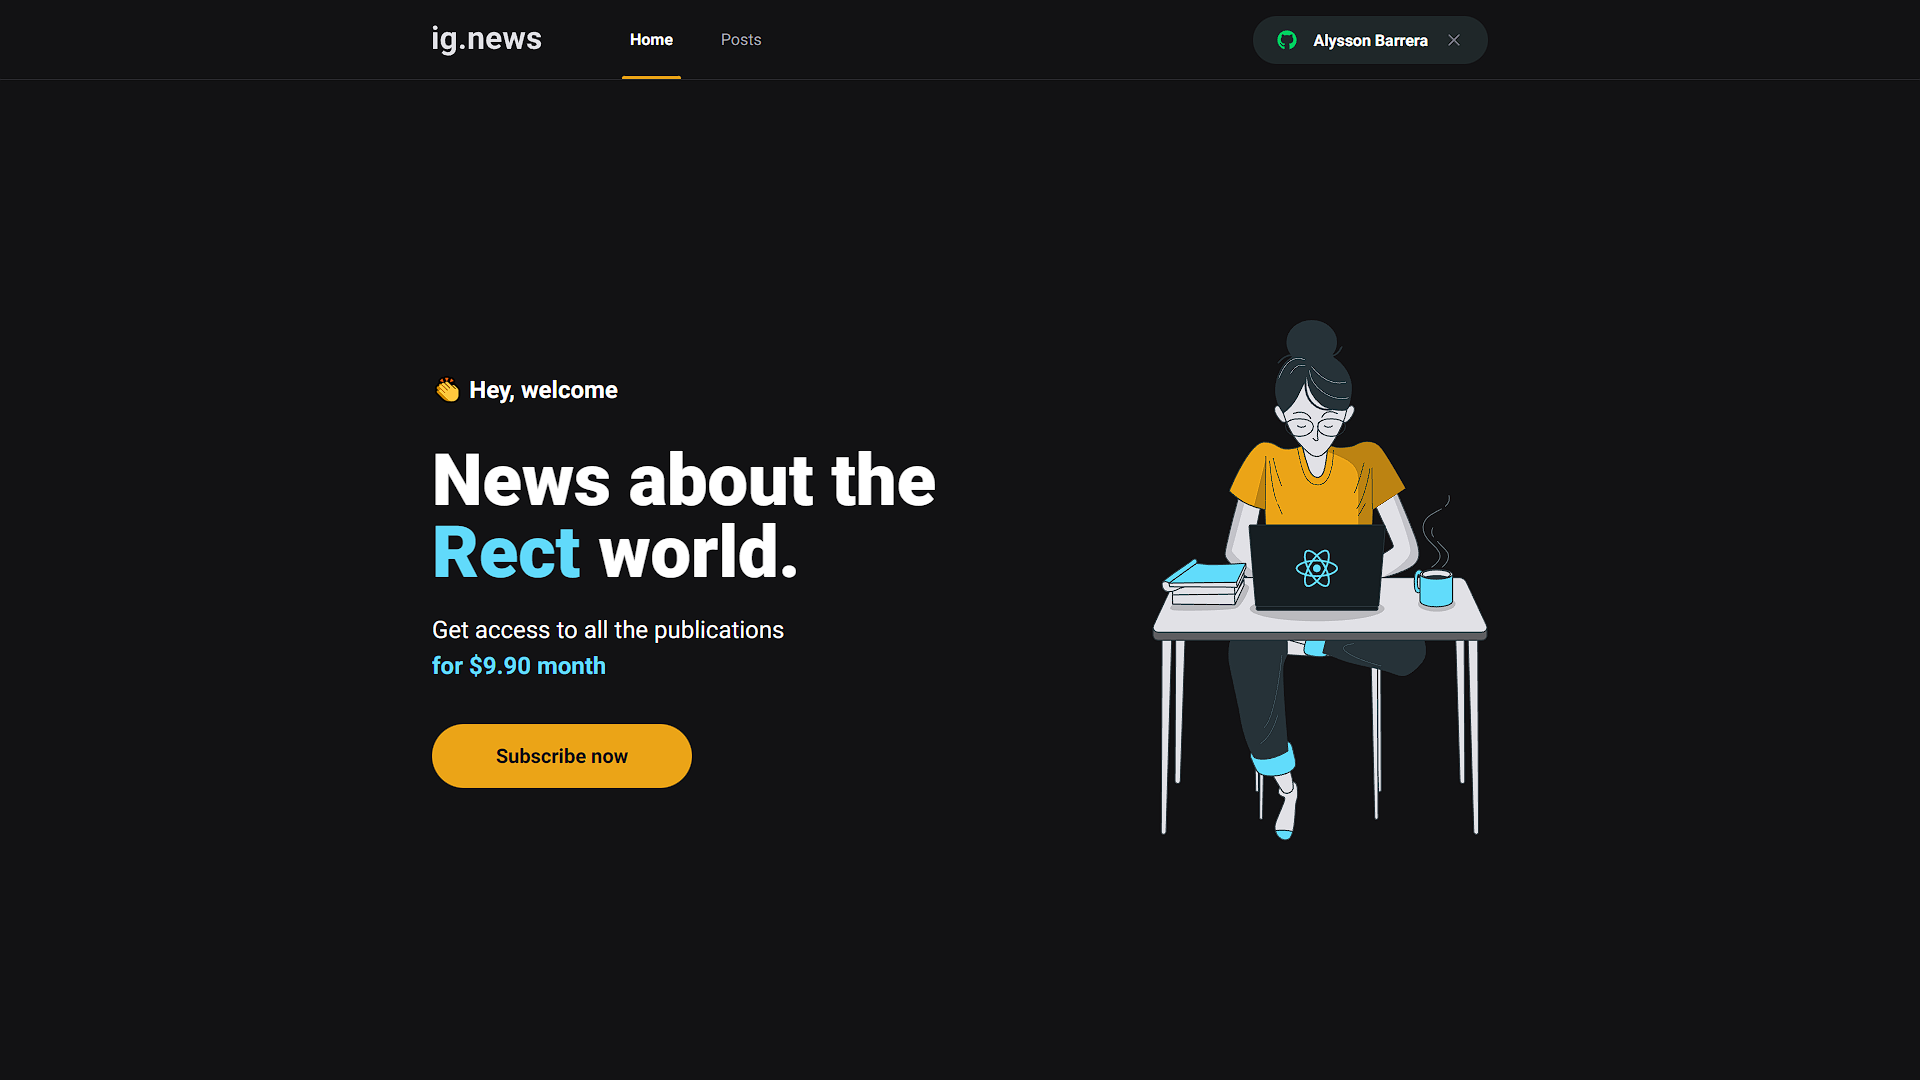
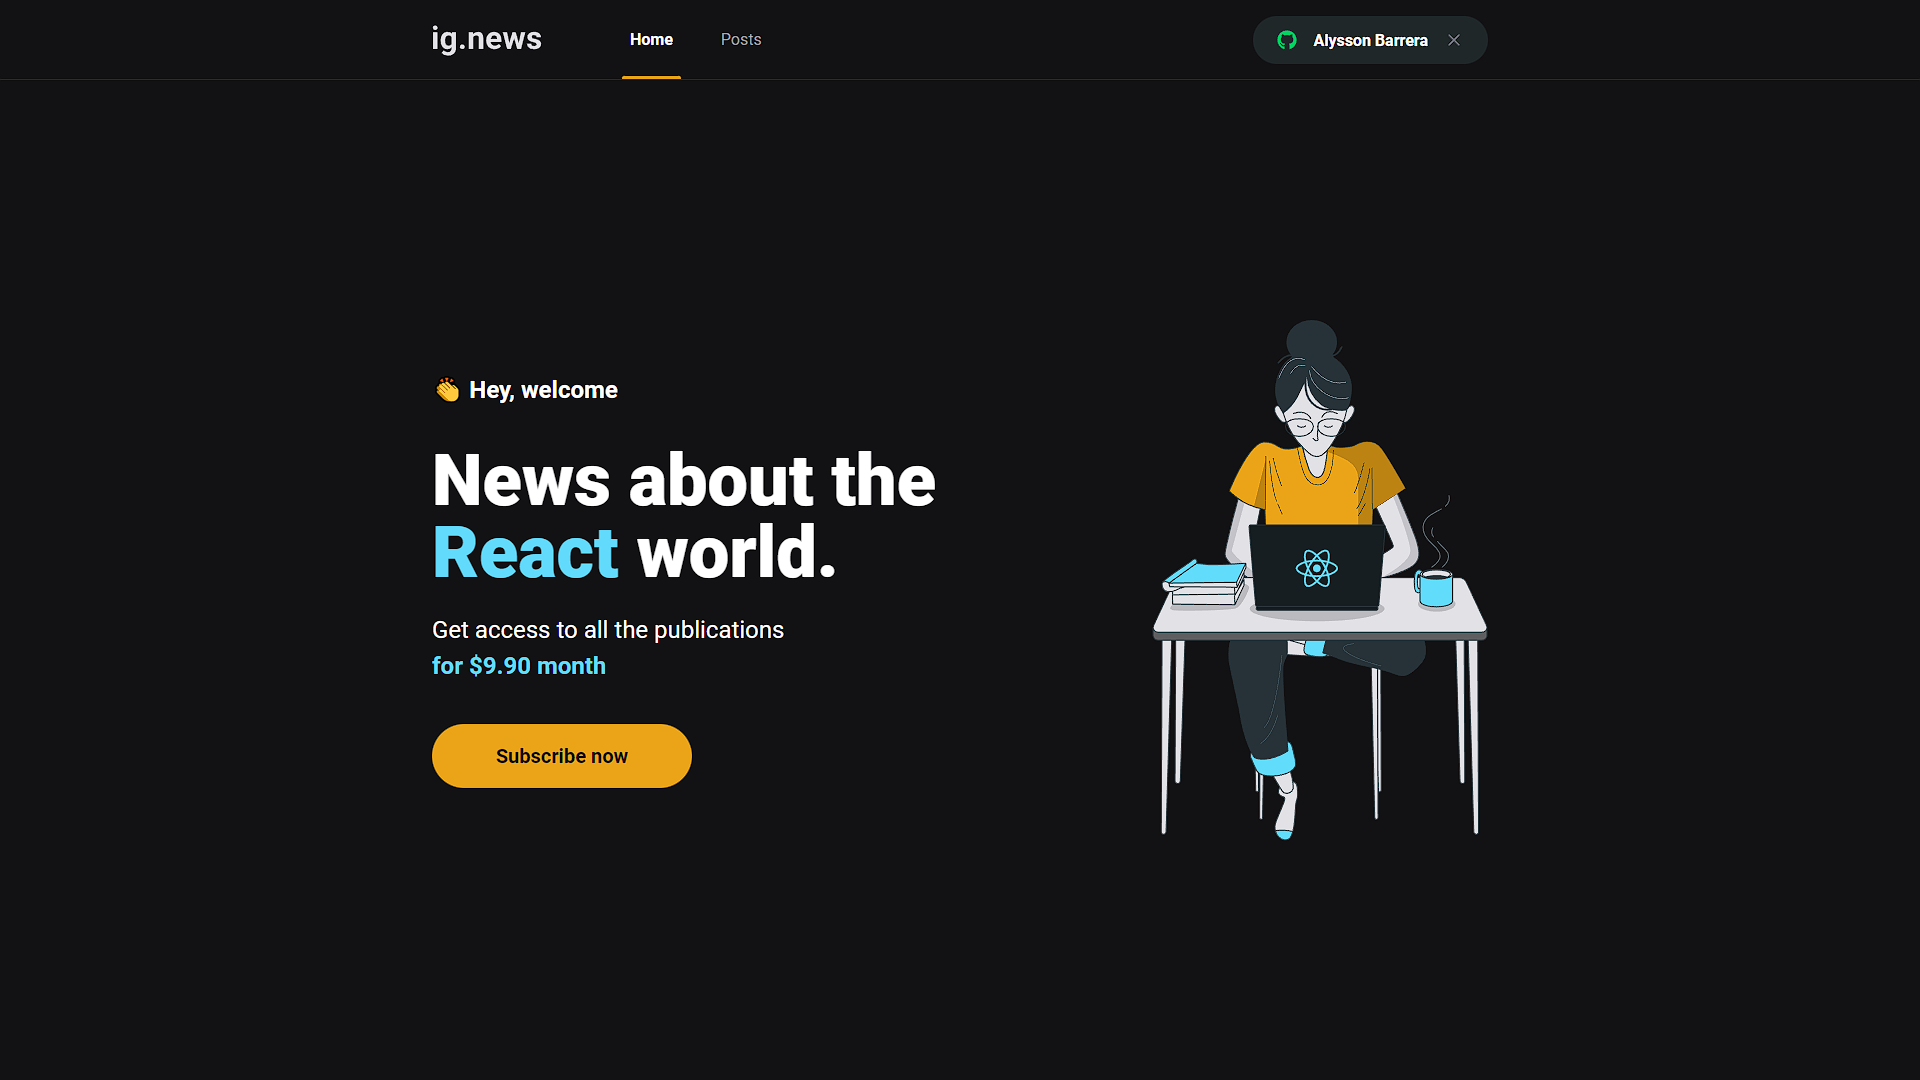
:seedling: update

Changed region(s): [[0.25, 0.4889, 0.4375, 0.55], [0.6875, 0.0306, 0.7188, 0.0611], [0.25, 0.5806, 0.2812, 0.6111]]

diff --git a/src/pages/index.tsx b/src/pages/index.tsx
@@ -22,7 +22,7 @@ export default function Home({ product }: HomeProps) {
      <main className={styles.contentContainer}>
       <section className={styles.hero}>
         <span>👏 Hey, welcome</span>
-        <h1>News about the <span>Rect</span> world.</h1>
+        <h1>News about the <span>React</span> world.</h1>
         <p>
           Get access to all the publications <br />
           <span>for {product.amount} month</span>
